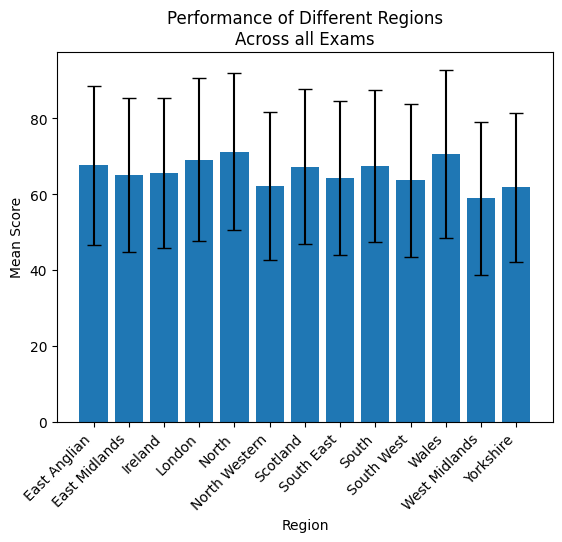
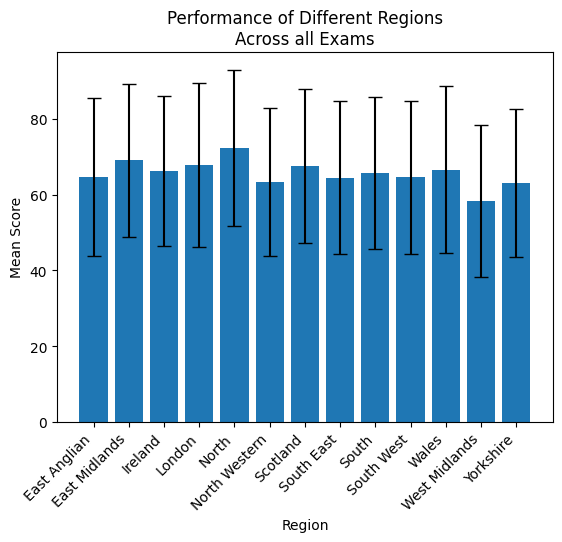
Refactor: put all DP mean functionality in one function to reduce code duplication

diff --git a/src/diff_private.py b/src/diff_private.py
@@ -11,6 +11,32 @@ PLOTS_FOLDER = os.path.join("..", "results", "scores-diff-private")
 def get_added_laplace_noise(global_sensitivty, epsilon):
     return np.random.laplace(scale=global_sensitivty / epsilon)
 
+# `get_dp_mean`
+# 
+# Within data frame `df`, takes the lists of values within `df[src_key]`, 
+# and stores differentially private means of those lists within `df[dest_key]`.
+# Also stores error/variance within `df[error_key]` based on global sensitivity 
+# and epsilon.
+# 
+# Uses inputted `epsilon` for the epsilon value.
+# 
+# `global_sensitivity_func` is a function that takes in an arbitrary list 
+# that is an element of `df[src_key]` and returns the global sensitivity
+# Example global_sensitivity_func: lambda x : 100 / len(x)
+#
+# Side effects:
+#  Stores intermediate results in `df["gs"]` and `df["noise"]`
+def get_dp_mean(df, global_sensitivity_func, epsilon, src_key, dest_key="mean", error_key="error"):
+    df[dest_key] = df[src_key].apply(np.mean)
+    print(f"Min: {df[dest_key].min()}; Max: {df[dest_key].max()}; Mean: {df[dest_key].mean()}")
+    df["gs"] = df[src_key].apply(global_sensitivity_func)
+    df["noise"] = df["gs"].apply(
+        lambda x: get_added_laplace_noise(x, epsilon)
+    )
+    df[dest_key] += df["noise"]
+    print(f"Min: {df[dest_key].min()}; Max: {df[dest_key].max()}; Mean: {df[dest_key].mean()}")
+
+    df[error_key] = df["gs"].apply(lambda x: (2 * (x / epsilon)) ** 2)
 
 # TODO add timing
 
@@ -28,16 +54,9 @@ def student_scores_vs_learning(epsilon):
     )
 
     # Mean and std of performance
-    consistency["mean"] = consistency["score"].apply(np.mean)
-    consistency["gs"] = consistency["score"].apply(lambda x: 100 / len(x))
-    consistency["noise"] = consistency["gs"].apply(
-        lambda x: get_added_laplace_noise(x, epsilon)
-    )
-    consistency["mean"] += consistency["noise"]
+    get_dp_mean(consistency, lambda x : 100 / len(x), epsilon, src_key="score")
+    # force within range 0-100
     consistency["mean"] = consistency["mean"].clip(lower=0, upper=100)
-
-    # Compute amount of error
-    consistency["error"] = consistency["gs"].apply(lambda x: (2 * (x / epsilon)) ** 2)
 
     # Calculates total VLE usage by summing "sum_click"
     student_total_vle_usage = (
@@ -95,20 +114,11 @@ def age_exam_performance(epsilon):
     )
 
     # Mean and std of performance
-    age_performance["mean"] = age_performance["score"].apply(np.mean)
+    get_dp_mean(age_performance, lambda x : 100 / len(x), epsilon, src_key="score")
     age_performance["std"] = age_performance["score"].apply(np.std)
-    # print(age_performance["mean"].min(), age_performance["mean"].max())
-    age_performance["gs"] = age_performance["score"].apply(lambda x: 100 / len(x))
-    age_performance["noise"] = age_performance["gs"].apply(
-        lambda x: get_added_laplace_noise(x, epsilon)
-    )
-    age_performance["mean"] += age_performance["noise"]
-    # print(age_performance["mean"].min(), age_performance["mean"].max())
+
+    # force mean to be within range 0-100
     age_performance["mean"] = age_performance["mean"].clip(lower=0, upper=100)
-    age_performance["error"] = age_performance["gs"].apply(
-        lambda x: (2 * (x / epsilon)) ** 2
-    )
-    # print(age_performance)
 
     # Plot it
     x = age_performance.index.to_list()
@@ -153,18 +163,10 @@ def region_exam_performance(epsilon):
         student_scores_and_regions.groupby("region")["score"].apply(list).to_frame()
     )
 
-    region_performance["mean"] = region_performance["score"].apply(np.mean)
-    print(region_performance["mean"].min(), region_performance["mean"].max())
-    region_performance["gs"] = region_performance["score"].apply(lambda x: 100 / len(x))
-    region_performance["noise"] = region_performance["gs"].apply(
-        lambda x: get_added_laplace_noise(x, epsilon)
-    )
-    region_performance["mean"] += region_performance["noise"]
-    print(region_performance["mean"].min(), region_performance["mean"].max())
+    get_dp_mean(region_performance, lambda x : 100 / len(x), epsilon, src_key="score")
+
+    # force mean to be between 0-100
     region_performance["mean"] = region_performance["mean"].clip(lower=0, upper=100)
-    region_performance["error"] = region_performance["gs"].apply(
-        lambda x: (2 * (x / epsilon)) ** 2
-    )
 
     region_performance["std"] = region_performance["score"].apply(np.std)
 
